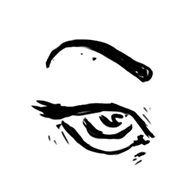
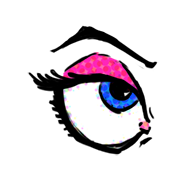
updated assets. small attempt of infiltration scene data model

Changed region(s): [[0.1344, 0.1344, 0.8333, 0.8871], [0.2688, 0.7527, 0.3226, 0.7796], [0.2419, 0.7258, 0.2688, 0.7527]]

diff --git a/Shapeshift Agent/Assets/DraggeableFacePart.cs b/Shapeshift Agent/Assets/DraggeableFacePart.cs
@@ -50,11 +50,14 @@ public class DraggeableFacePart : MonoBehaviour
 
 void OnMouseUp()
 {
-   
-       Destroy(obj);
-    obj = null;
 
-        Vector3 mousePos = Camera.main.ScreenToWorldPoint(new Vector3(Input.mousePosition.x, Input.mousePosition.y, 0));
+    if (obj != null)
+    {
+        Destroy(obj);
+        obj = null;
+    }
+
+    Vector3 mousePos = Camera.main.ScreenToWorldPoint(new Vector3(Input.mousePosition.x, Input.mousePosition.y, 0));
 
     float differenceX =     bigFaceRenderer.transform.position.x - mousePos.x;
     float differenceY = bigFaceRenderer.transform.position.y - mousePos.y;
@@ -98,6 +101,12 @@ void OnMouseUp()
 
     void OnMouseDown()
     {
+
+        if (obj != null)
+        {
+            Destroy(obj);
+            obj = null;
+        }
         Sprite sprite = Resources.Load(geFileName(), typeof(Sprite)) as Sprite;
         obj = new GameObject();
         Vector3 mousePos=Camera.main.ScreenToWorldPoint(new Vector3(Input.mousePosition.x, Input.mousePosition.y, 0));

diff --git a/Shapeshift Agent/Assets/SingletonData.cs b/Shapeshift Agent/Assets/SingletonData.cs
@@ -5,7 +5,8 @@ public class SingletonData : MonoBehaviour
 {
 
     private Face _CurrrentFace;
-    private int currentSubjectNumber;
+    private int currentInfiltrationLevel;
+    private Target current;
 
 	// Use this for initialization
 	void Start ()
@@ -24,9 +25,9 @@ public class SingletonData : MonoBehaviour
         set { _CurrrentFace = value; }
     }
 
-    public int CurrentSubjectNumber
+    public int CurrentInfiltrationLevel
     {
-        get { return currentSubjectNumber; }
-        set { currentSubjectNumber = value; }
+        get { return currentInfiltrationLevel; }
+        set { currentInfiltrationLevel = value; }
     }
 }

diff --git a/Shapeshift Agent/Assets/ReportController.cs b/Shapeshift Agent/Assets/ReportController.cs
@@ -22,7 +22,7 @@ public class ReportController : MonoBehaviour
     {
         if (previousLoadedReport) Destroy(previousLoadedReport);
 
-        Sprite sprite = Resources.Load("report"+ data.CurrentSubjectNumber, typeof(Sprite)) as Sprite;
+        Sprite sprite = Resources.Load("report"+ data.CurrentInfiltrationLevel, typeof(Sprite)) as Sprite;
         GameObject obj = new GameObject();
         obj.transform.position = new Vector3(transform.position.x, transform.position.y, transform.position.z+ 9f);
         SpriteRenderer rend = obj.AddComponent(typeof(SpriteRenderer)) as SpriteRenderer;

diff --git a/Shapeshift Agent/Assets/scripts/GameFlowController.cs b/Shapeshift Agent/Assets/scripts/GameFlowController.cs
@@ -1,0 +1,26 @@
+using System;
+using System.Collections.Generic;
+using System.Linq;
+using System.Text;
+
+
+   public class GameFlowController
+    {
+
+       public void GoToCafeteria(bool infiltrationFailed)
+       {
+           
+       }
+
+    public void GoToFaceChange()
+    {
+
+    }
+
+
+    public void GoToInfiltration()
+    {
+
+    }
+}
+

diff --git a/Shapeshift Agent/Assets/scripts/model/infiltration/Target.cs b/Shapeshift Agent/Assets/scripts/model/infiltration/Target.cs
@@ -1,0 +1,18 @@
+using System;
+using System.Collections.Generic;
+using System.Linq;
+using System.Text;
+
+
+   public class Target
+   {
+
+       private TargetConfidence confidence;
+
+       public TargetConfidence Confidence
+       {
+           get { return confidence; }
+           set { confidence = value; }
+       }
+   }
+

diff --git a/Shapeshift Agent/Assets/scripts/model/infiltration/TargetConfidence.cs b/Shapeshift Agent/Assets/scripts/model/infiltration/TargetConfidence.cs
@@ -1,0 +1,8 @@
+using System;
+using System.Collections.Generic;
+using System.Linq;
+using System.Text;
+
+
+    public enum TargetConfidence  { ZERO, ONE,TWO,THREE,FOUR,FIVE}
+
